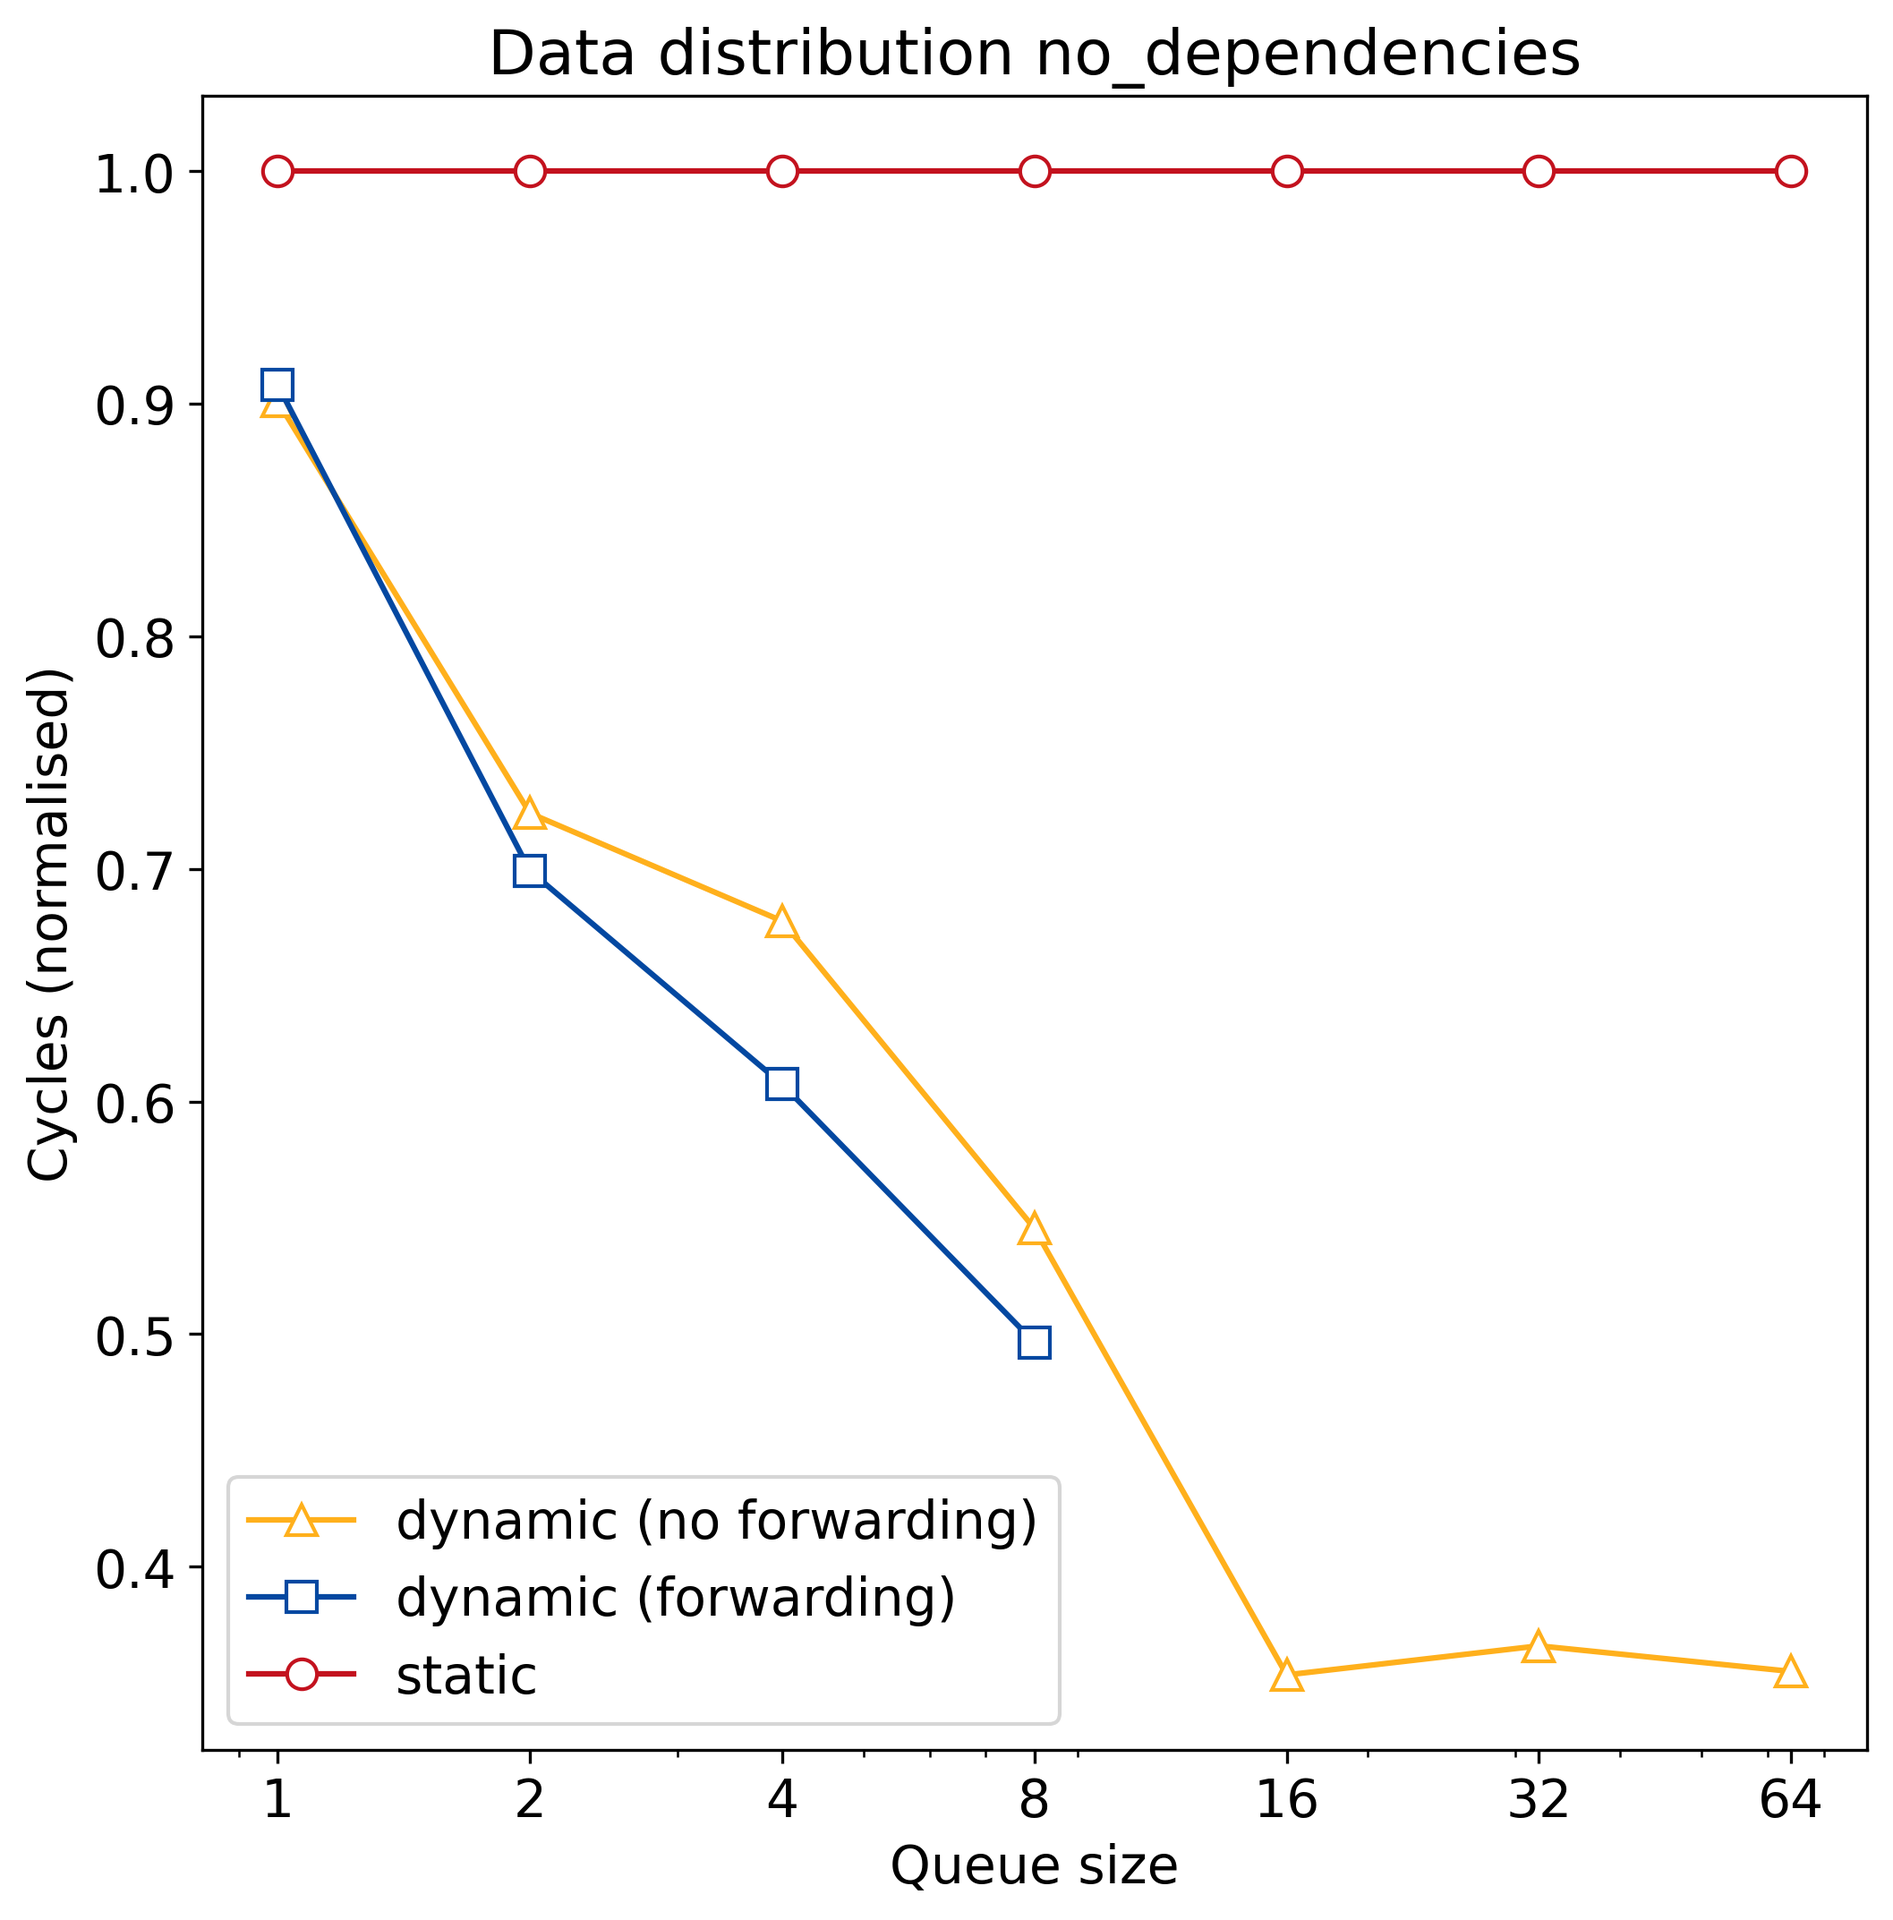
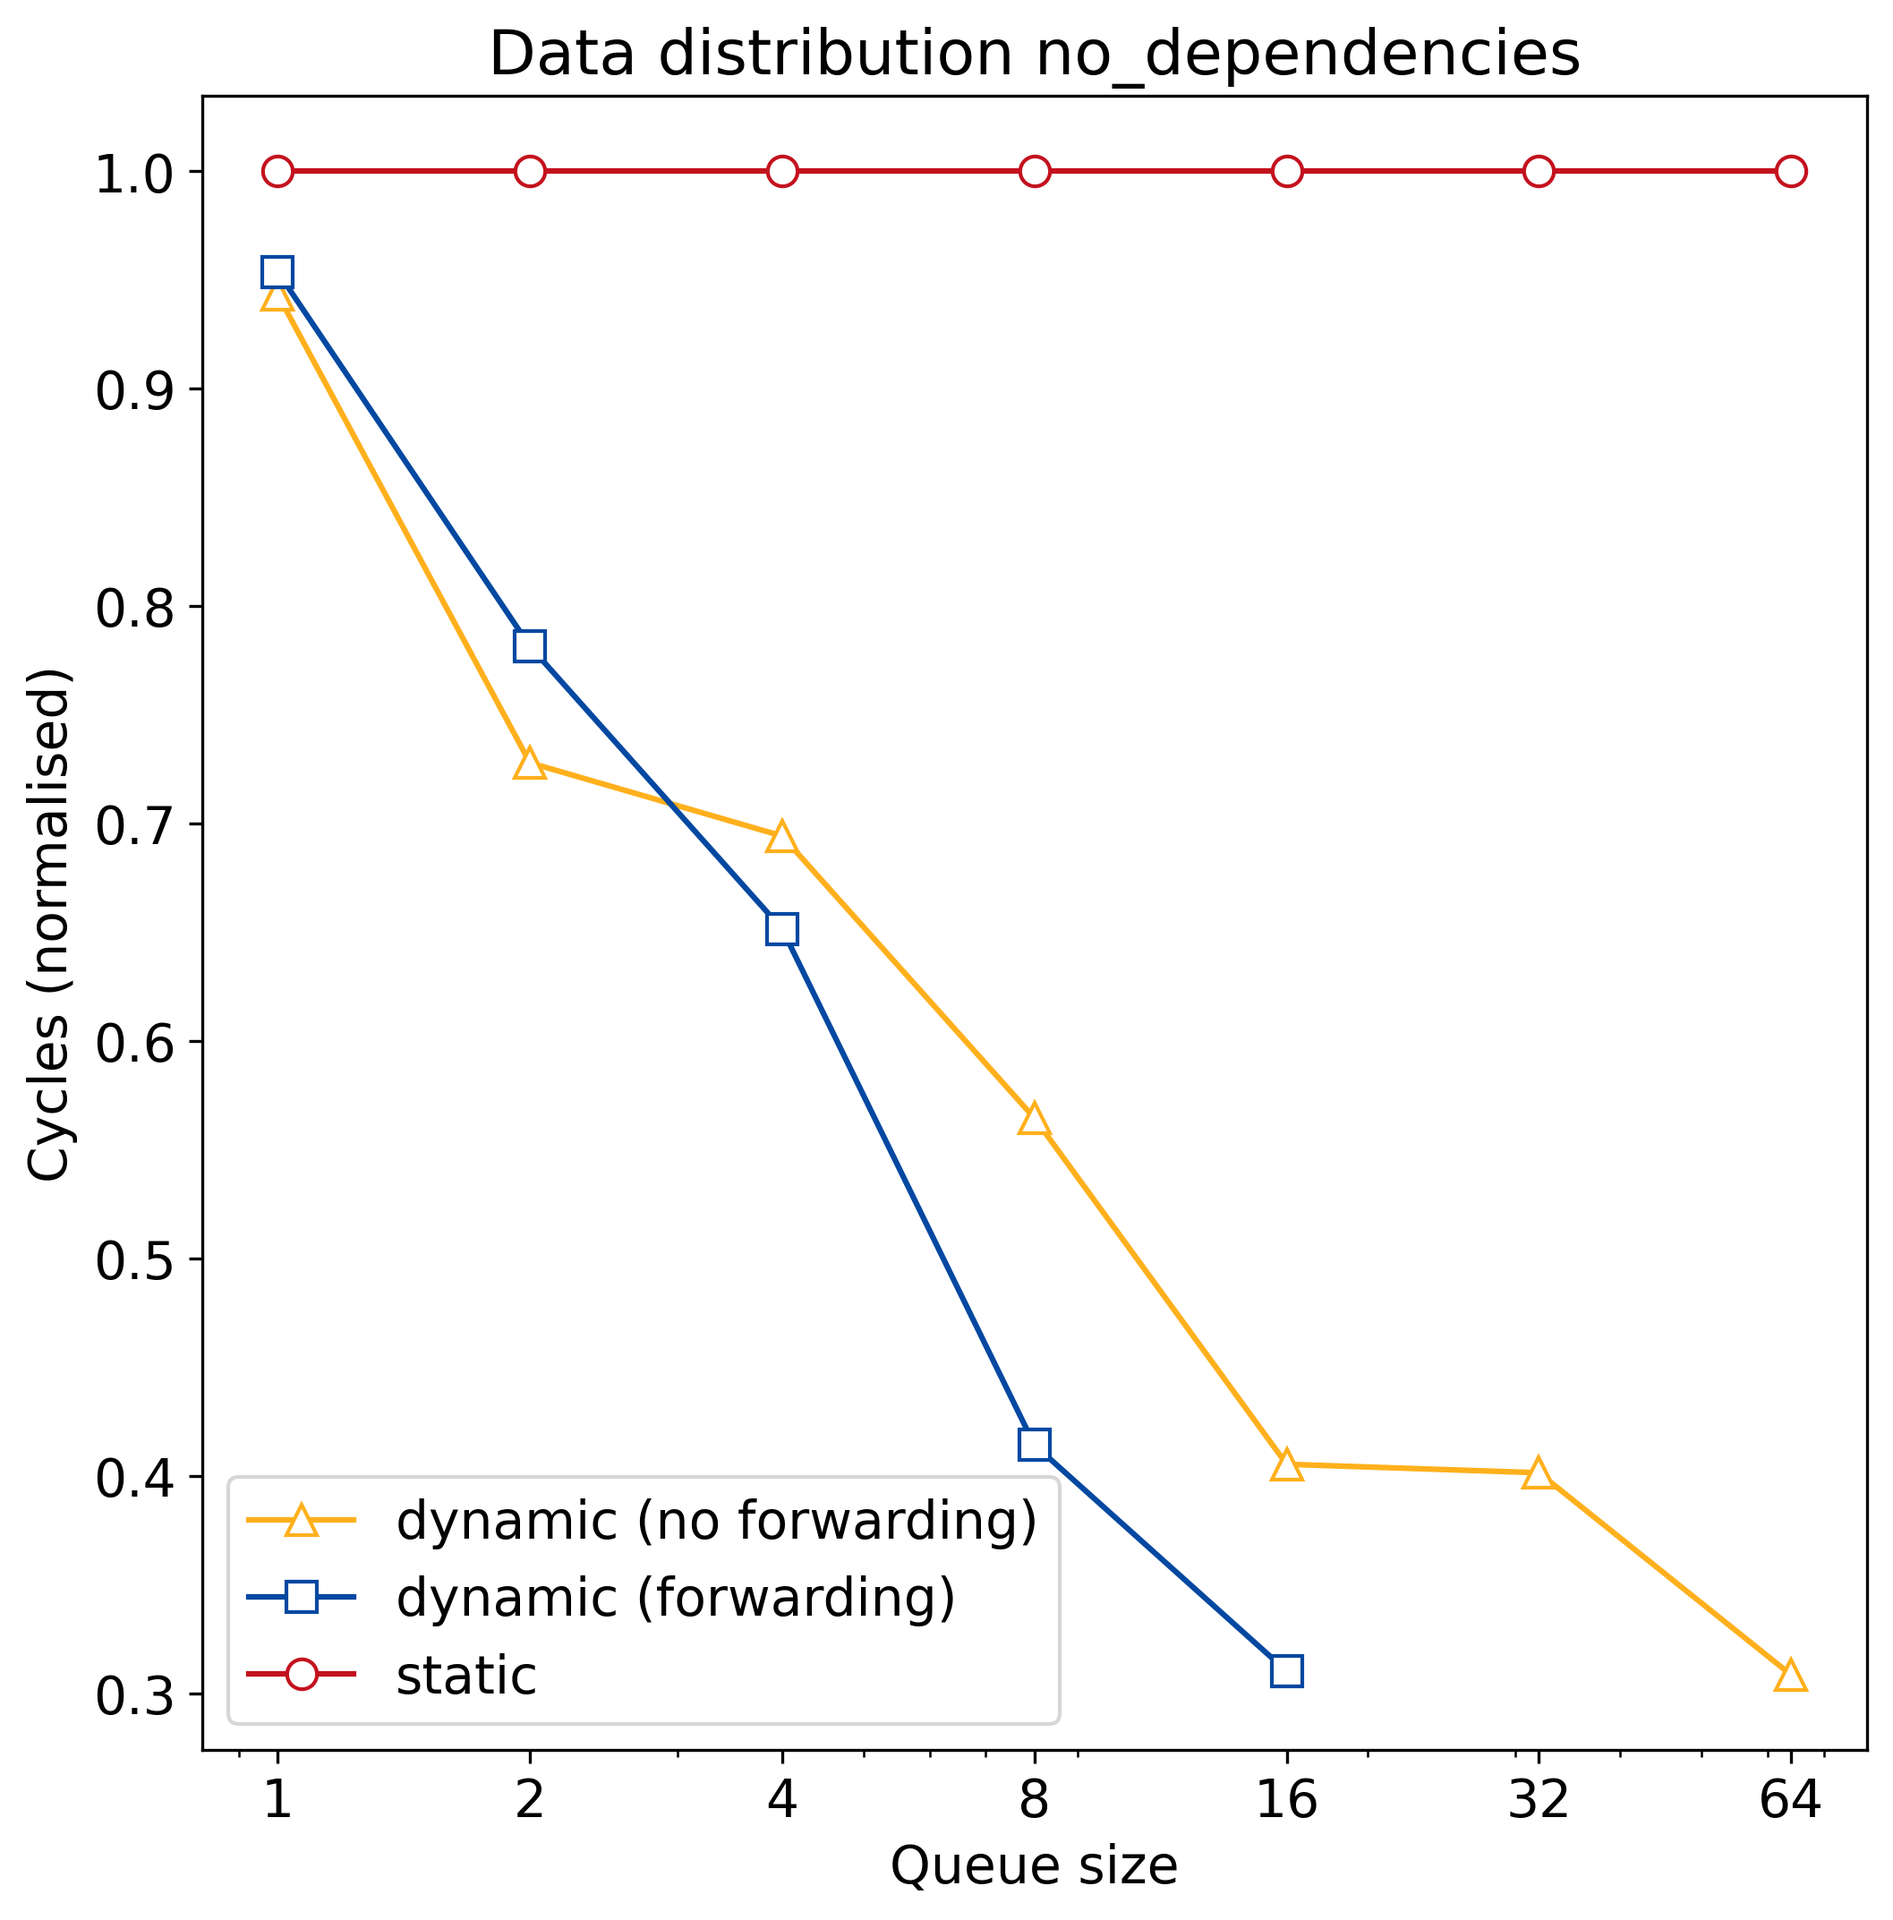
Add perf/resource data.

diff --git a/run_exp.py b/run_exp.py
@@ -25,16 +25,11 @@ DATA_DISTRIBUTIONS = {
     2: 'random'
 }
 
-Q_SIZES_DYNAMIC = [1, 2, 4, 8]
+Q_SIZES_DYNAMIC = [1, 2, 4, 8, 16]
 Q_SIZES_DYNAMIC_NO_FORWARD = [1, 2, 4, 8, 16, 32, 64]
 
 SIM_CYCLES_FILE = 'simulation_raw.json'
 TMP_FILE = '.tmp_run_exp.txt'
-
-# BRAM_STATIC_PARTITION = 492
-# ALMS_STATIC_PARTITION = 89975   # In report this is 'Logic utilization'
-# REGISTERS_STATIC_PARTITION = 98940
-# DSP_STATIC_PARTITION = 0
 
 
 def run_bin(bin, a_size, distr=0):
